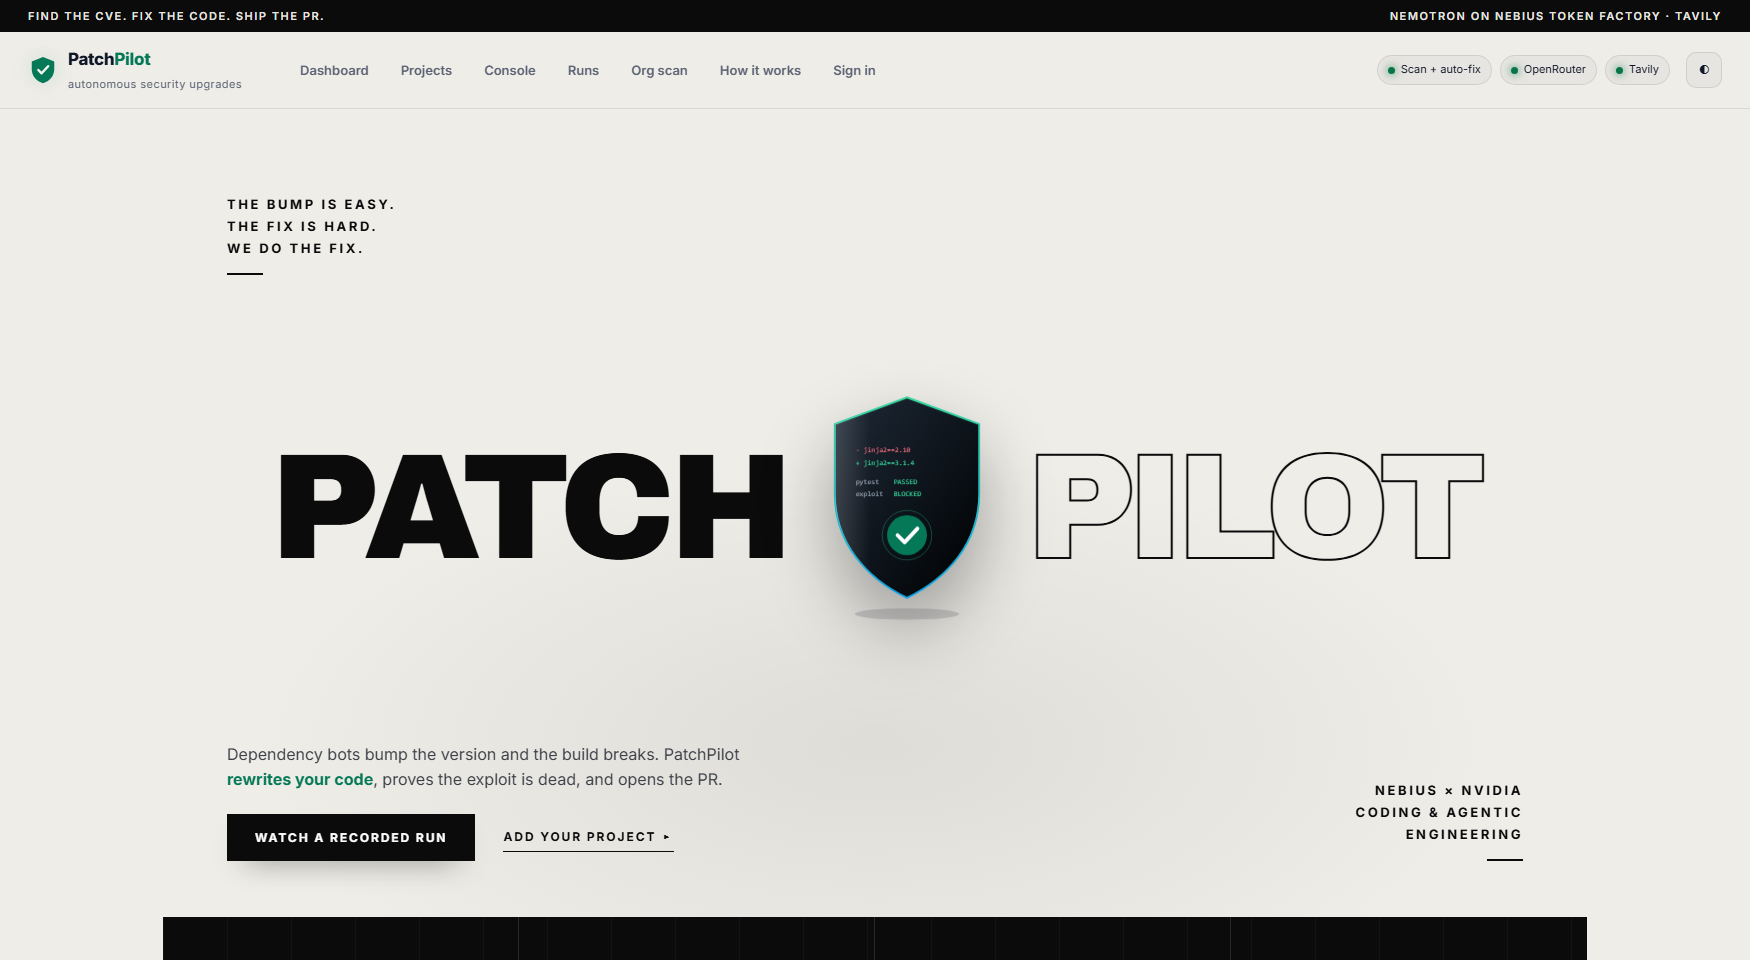
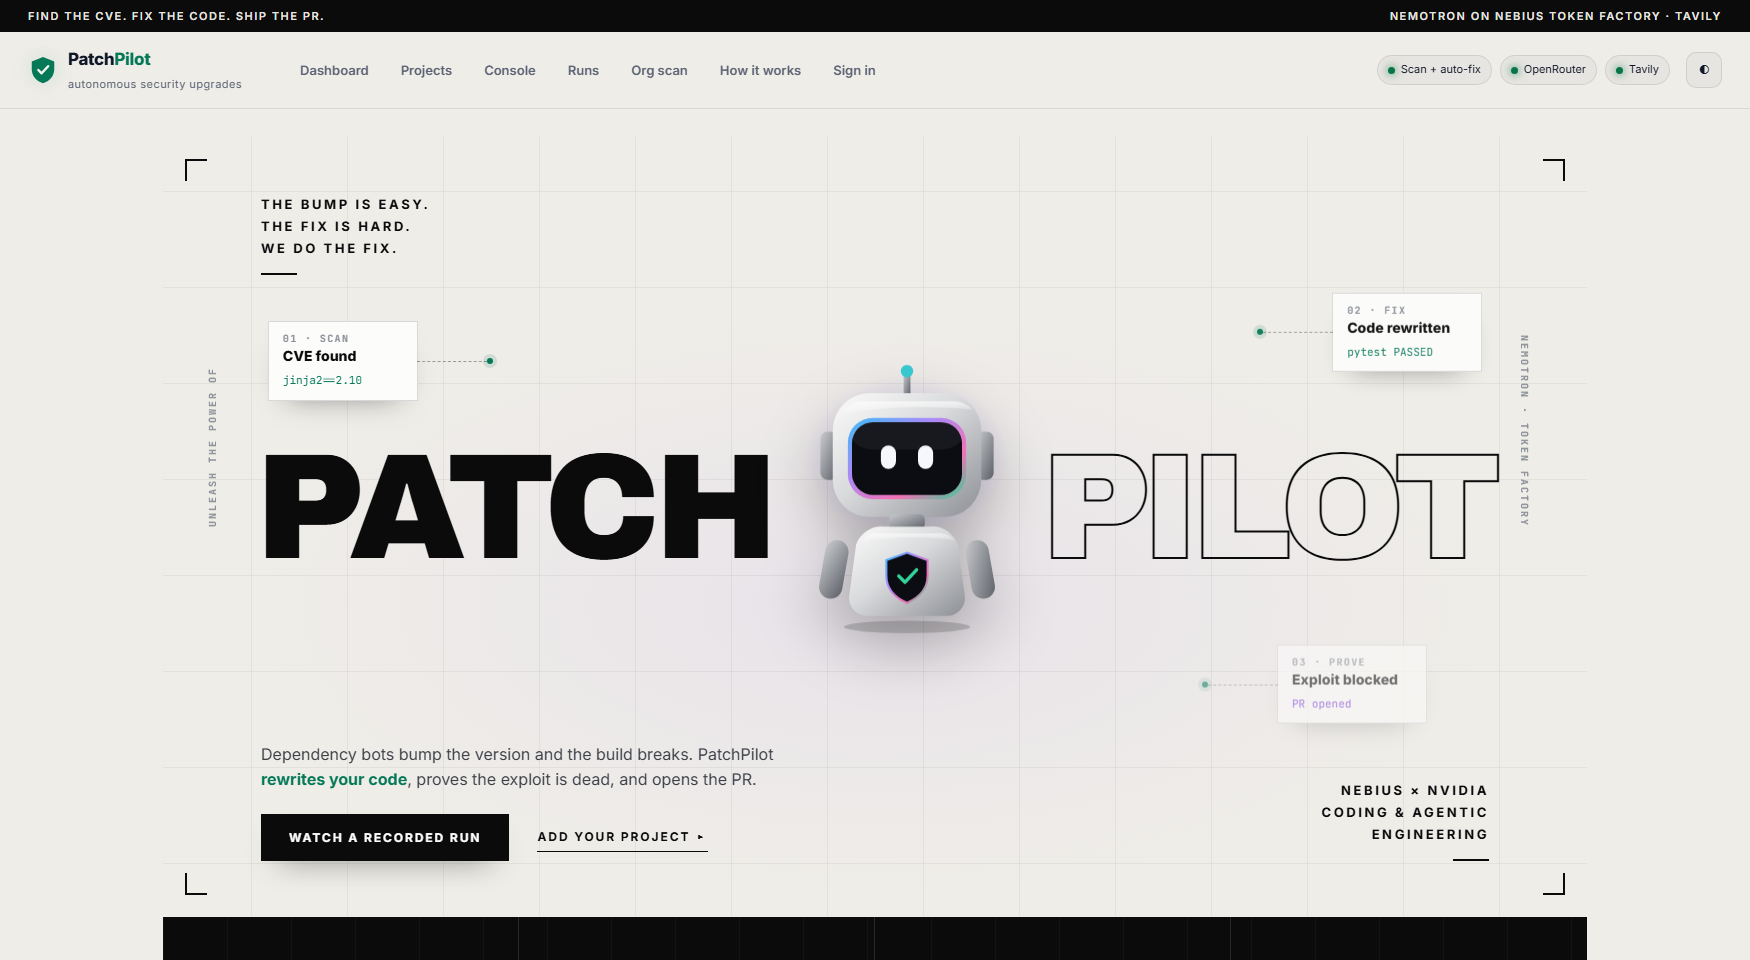
Landing hero: PatchPilot robot mascot with tier-colour visor, control-panel frame (corner brackets, grid guides, wired status cards, side labels)

diff --git a/web/landing.css b/web/landing.css
@@ -140,3 +140,33 @@ body.lp { --ink: #0b0b0c; --paper: #efede8; --paper-2: #e4e1da; --fog: #8a8f98; 
   .wordmark .emblem { width: min(11.5vw, 190px); }
   .cx-hero { min-height: min(84vh, 780px); }
 }
+
+/* Robot mascot + control-panel frame (brackets, guide lines, wired status cards) */
+.wordmark .emblem.bot { width: min(13vw, 220px); margin: -.62em 0 -.5em; filter: drop-shadow(0 26px 30px rgba(0,0,0,.28)); }
+.cx-hero { background-image: linear-gradient(rgba(0,0,0,.05) 1px, transparent 1px), linear-gradient(90deg, rgba(0,0,0,.05) 1px, transparent 1px), radial-gradient(900px 420px at 50% 60%, rgba(167,139,250,.10), transparent 70%);
+  background-size: 96px 96px, 96px 96px, auto; background-position: center; }
+.hud { position: absolute; inset: 22px; pointer-events: none; z-index: 2; }
+.hud .br { position: absolute; width: 22px; height: 22px; border: 0 solid var(--ink); }
+.hud .tl { top: 0; left: 0; border-top-width: 2px; border-left-width: 2px; } .hud .tr { top: 0; right: 0; border-top-width: 2px; border-right-width: 2px; }
+.hud .bl { bottom: 0; left: 0; border-bottom-width: 2px; border-left-width: 2px; } .hud .brr { bottom: 0; right: 0; border-bottom-width: 2px; border-right-width: 2px; }
+.hud-card { position: absolute; background: rgba(255,255,255,.82); backdrop-filter: blur(8px); border: 1px solid rgba(0,0,0,.14); padding: 10px 14px; min-width: 150px; box-shadow: 0 14px 30px -20px rgba(0,0,0,.5); animation: rise .8s both; }
+.hud-card small { display: block; font: 700 10px var(--mono); letter-spacing: .14em; text-transform: uppercase; color: var(--fog); }
+.hud-card b { display: block; font: 800 14px Inter; margin: 2px 0 4px; }
+.hud-card code { font-size: 11px; color: var(--accent); }
+.hud-card::after { content: ""; position: absolute; top: 50%; width: 70px; border-top: 1px dashed rgba(0,0,0,.35); }
+.hud-card::before { content: ""; position: absolute; top: calc(50% - 3px); width: 6px; height: 6px; border-radius: 50%; background: var(--accent); box-shadow: 0 0 0 4px var(--glow); }
+.hud-card.c1 { left: 6%; top: 22%; animation-delay: .2s; } .hud-card.c1::after { left: 100%; } .hud-card.c1::before { left: calc(100% + 70px); }
+.hud-card.c2 { right: 6%; top: 18%; animation-delay: .5s; } .hud-card.c2::after { right: 100%; } .hud-card.c2::before { right: calc(100% + 70px); }
+.hud-card.c3 { right: 10%; bottom: 24%; animation-delay: .8s; } .hud-card.c3::after { right: 100%; } .hud-card.c3::before { right: calc(100% + 70px); }
+.hud-card.c3 code { color: var(--super); }
+.hud-label { position: absolute; font: 700 10px var(--mono); letter-spacing: .2em; text-transform: uppercase; color: var(--fog); }
+.hud-label.l1 { left: 34px; bottom: 50%; transform: rotate(-90deg); transform-origin: left bottom; }
+.hud-label.l2 { right: 34px; top: 50%; transform: rotate(90deg); transform-origin: right top; }
+@keyframes rise { from { opacity: 0; transform: translateY(12px); } }
+.cx-hero-tag { margin-left: 34px; } .cx-hero-foot { padding: 0 34px; }
+@media (max-width: 1100px) { .hud-card, .hud-label { display: none; } }
+@media (max-width: 720px) {
+  .wordmark .emblem.bot { width: 46vw; margin: 2vw auto; }
+  .hud { inset: 10px; } .cx-hero-tag { margin-left: 14px; } .cx-hero-foot { padding: 0 14px; }
+}
+@media (prefers-reduced-motion: reduce) { .hud-card { animation: none; } }

diff --git a/web/landing.html b/web/landing.html
@@ -23,8 +23,15 @@
 <section class="cx-hero" aria-labelledby="heroH">
   <p class="cx-hero-tag">The bump is easy.<br>The fix is hard.<br>We do the fix.</p>
   <h1 id="heroH" class="wordmark" aria-label="PatchPilot: dependency bots bump the version and the build breaks. PatchPilot rewrites your code, proves the exploit is dead, and opens the PR.">
-    <span aria-hidden="true">PATCH</span><img class="emblem" src="/static/hero-shield.svg" alt="" width="400" height="520"><span aria-hidden="true">PILOT</span>
+    <span aria-hidden="true">PATCH</span><img class="emblem bot" src="/static/hero-bot.svg" alt="" width="320" height="400"><span aria-hidden="true">PILOT</span>
   </h1>
+  <div class="hud" aria-hidden="true">
+    <i class="br tl"></i><i class="br tr"></i><i class="br bl"></i><i class="br brr"></i>
+    <div class="hud-card c1"><small>01 · Scan</small><b>CVE found</b><code>jinja2==2.10</code></div>
+    <div class="hud-card c2"><small>02 · Fix</small><b>Code rewritten</b><code>pytest PASSED</code></div>
+    <div class="hud-card c3"><small>03 · Prove</small><b>Exploit blocked</b><code>PR opened</code></div>
+    <span class="hud-label l1">Unleash the power of</span><span class="hud-label l2">Nemotron · Token Factory</span>
+  </div>
   <div class="cx-hero-foot">
     <div>
       <p class="cx-hero-line">Dependency bots bump the version and the build breaks. PatchPilot <b>rewrites your code</b>, proves the exploit is dead, and opens the PR.</p>
